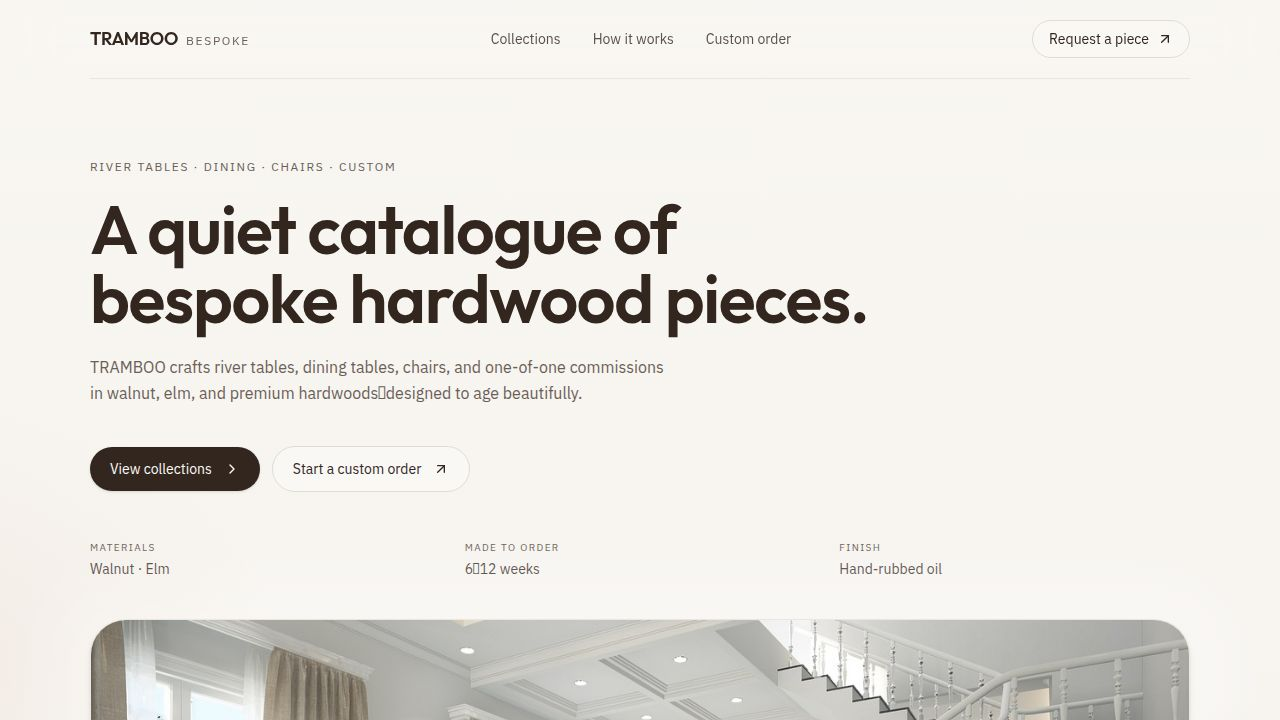
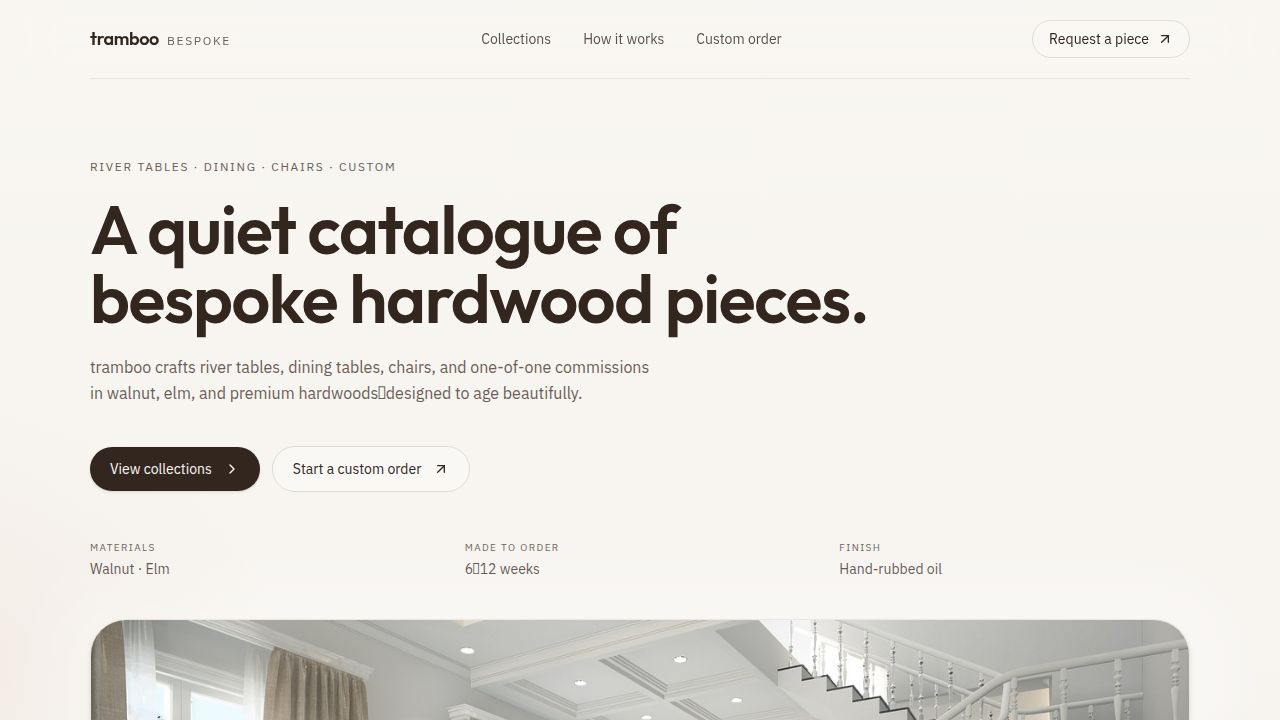
Update brand name to lowercase across the application
Converts all instances of "TRAMBOO" to "tramboo" in HTML meta tags, component text, and image alt attributes.

Replit-Commit-Author: Agent
Replit-Commit-Session-Id: 97b1392e-35c4-4ab6-9b5e-57cd5e45b4fc
Replit-Commit-Checkpoint-Type: full_checkpoint
Replit-Commit-Event-Id: d1ed8ed4-03bf-4782-bd3a-a64930b64c4f
Replit-Commit-Screenshot-Url: https://storage.googleapis.com/screenshot-production-us-central1/adb0b728-6c5c-45cc-b27b-6ec134e58cb9/97b1392e-35c4-4ab6-9b5e-57cd5e45b4fc/tspMYx9
Replit-Helium-Checkpoint-Created: true

Changed region(s): [[0.0625, 0.4889, 0.5312, 0.5194], [0.375, 0.0306, 0.625, 0.0611], [0.0625, 0.0306, 0.1875, 0.0611]]

diff --git a/client/src/pages/home.tsx b/client/src/pages/home.tsx
@@ -33,7 +33,7 @@ function Nav() {
             className="tram-focus flex items-baseline gap-2"
             data-testid="link-brand-home"
           >
-            <span className="tram-display text-lg font-semibold tracking-tight">TRAMBOO</span>
+            <span className="tram-display text-lg font-semibold tracking-tight">tramboo</span>
             <span className="text-xs text-muted-foreground tram-kicker">Bespoke</span>
           </Link>
 
@@ -98,8 +98,8 @@ function Hero() {
             <span className="block">bespoke hardwood pieces.</span>
           </h1>
           <p className="mt-5 max-w-xl text-base leading-relaxed text-muted-foreground" data-testid="text-hero-subtitle">
-            TRAMBOO crafts river tables, dining tables, chairs, and one-of-one commissions in
-            walnut, elm, and premium hardwoodsdesigned to age beautifully.
+            tramboo crafts river tables, dining tables, chairs, and one-of-one commissions in
+            walnut, elm, and premium hardwoods—designed to age beautifully.
           </p>
 
           <div className="mt-10 flex flex-col gap-3 sm:flex-row sm:items-center" data-testid="group-hero-cta">
@@ -140,7 +140,7 @@ function Hero() {
           <div className="relative overflow-hidden rounded-[2.25rem] border border-border/60 bg-card shadow-md">
             <img
               src={heroImg}
-              alt="TRAMBOO studio"
+              alt="tramboo studio"
               className="h-[420px] w-full object-cover md:h-[520px]"
               data-testid="img-hero"
             />
@@ -152,7 +152,7 @@ function Hero() {
                       Featured
                     </div>
                     <div className="mt-1 truncate text-sm" data-testid="text-hero-caption-title">
-                      Studio Series  Walnut & linen tones
+                      Studio Series — Walnut & linen tones
                     </div>
                   </div>
                   <div className="hidden text-xs text-muted-foreground md:block" data-testid="text-hero-caption-meta">
@@ -284,7 +284,7 @@ function BrandStatement() {
           <p className="mt-4 text-sm leading-relaxed text-muted-foreground" data-testid="text-statement-body">
             We treat wood like a living material: grain direction, movement, and finish are
             considered from the first sketch to the final polish. Every commission is crafted to
-            bring warmth and clarity to a spacenever noise.
+            bring warmth and clarity to a space—never noise.
           </p>
 
           <div className="mt-8 grid grid-cols-3 gap-5" data-testid="grid-statement-stats">
@@ -335,7 +335,7 @@ function Footer() {
       <div className="grid gap-10 py-10 md:grid-cols-3">
         <div>
           <div className="tram-display text-lg font-semibold" data-testid="text-footer-brand">
-            TRAMBOO
+            tramboo
           </div>
           <p className="mt-3 max-w-sm text-sm text-muted-foreground" data-testid="text-footer-tagline">
             Bespoke hardwood furniture, made quietly and deliberately.
@@ -360,7 +360,7 @@ function Footer() {
           </div>
         </div>
         <div className="text-sm text-muted-foreground" data-testid="text-footer-note">
-           {new Date().getFullYear()} TRAMBOO. All imagery is placeholder for prototype.
+          © {new Date().getFullYear()} tramboo. All imagery is placeholder for prototype.
         </div>
       </div>
     </footer>

diff --git a/client/index.html b/client/index.html
@@ -4,19 +4,19 @@
     <meta charset="UTF-8" />
     <meta name="viewport" content="width=device-width, initial-scale=1.0, maximum-scale=1" />
 
-    <meta property="og:title" content="TRAMBOO" />
+    <meta property="og:title" content="tramboo" />
     <meta
       property="og:description"
-      content="TRAMBOO crafts timeless bespoke furniture in walnut, elm, and premium hardwoods—river tables, dining tables, and custom pieces made to last."
+      content="tramboo crafts timeless bespoke furniture in walnut, elm, and premium hardwoods—river tables, dining tables, and custom pieces made to last."
     />
     <meta property="og:type" content="website" />
     <meta property="og:image" content="https://replit.com/public/images/opengraph.png" />
     <meta name="twitter:card" content="summary_large_image" />
     <meta name="twitter:site" content="@replit" />
-    <meta name="twitter:title" content="TRAMBOO" />
+    <meta name="twitter:title" content="tramboo" />
     <meta
       name="twitter:description"
-      content="TRAMBOO crafts timeless bespoke furniture in walnut, elm, and premium hardwoods—river tables, dining tables, and custom pieces made to last."
+      content="tramboo crafts timeless bespoke furniture in walnut, elm, and premium hardwoods—river tables, dining tables, and custom pieces made to last."
     />
     <meta name="twitter:image" content="https://replit.com/public/images/opengraph.png" />
 

diff --git a/client/src/pages/contact.tsx b/client/src/pages/contact.tsx
@@ -25,7 +25,7 @@ function TopBar() {
       <div className="tram-container">
         <div className="flex items-center justify-between border-b border-border/60 py-5">
           <Link href="/" className="tram-focus tram-display text-lg font-semibold" data-testid="link-brand-home">
-            TRAMBOO
+            tramboo
           </Link>
           <Link
             href="/collections"
@@ -157,7 +157,7 @@ export default function Contact() {
         <div className="tram-hr" />
         <div className="grid gap-10 py-10 md:grid-cols-2 md:items-center">
           <div className="text-sm text-muted-foreground" data-testid="text-footer-note">
-            TRAMBOO  We reply within 12 business days (prototype copy).
+            tramboo  We reply within 12 business days (prototype copy).
           </div>
           <div className="flex gap-4 md:justify-end">
             <Link

diff --git a/client/src/pages/collections.tsx b/client/src/pages/collections.tsx
@@ -86,7 +86,7 @@ function TopBar() {
       <div className="tram-container">
         <div className="flex items-center justify-between border-b border-border/60 py-5">
           <Link href="/" className="tram-focus tram-display text-lg font-semibold" data-testid="link-brand-home">
-            TRAMBOO
+            tramboo
           </Link>
           <div className="flex items-center gap-2" data-testid="group-top-actions">
             <Link

diff --git a/client/src/pages/not-found.tsx b/client/src/pages/not-found.tsx
@@ -13,7 +13,7 @@ export default function NotFound() {
           className="max-w-xl"
         >
           <div className="tram-kicker text-xs text-muted-foreground" data-testid="text-notfound-kicker">
-            TRAMBOO
+            tramboo
           </div>
           <h1 className="tram-display mt-4 text-4xl md:text-6xl font-semibold" data-testid="text-notfound-title">
             Page not found.

diff --git a/client/src/pages/how-it-works.tsx b/client/src/pages/how-it-works.tsx
@@ -25,7 +25,7 @@ function TopBar() {
       <div className="tram-container">
         <div className="flex items-center justify-between border-b border-border/60 py-5">
           <Link href="/" className="tram-focus tram-display text-lg font-semibold" data-testid="link-brand-home">
-            TRAMBOO
+            tramboo
           </Link>
           <Link
             href="/collections"
